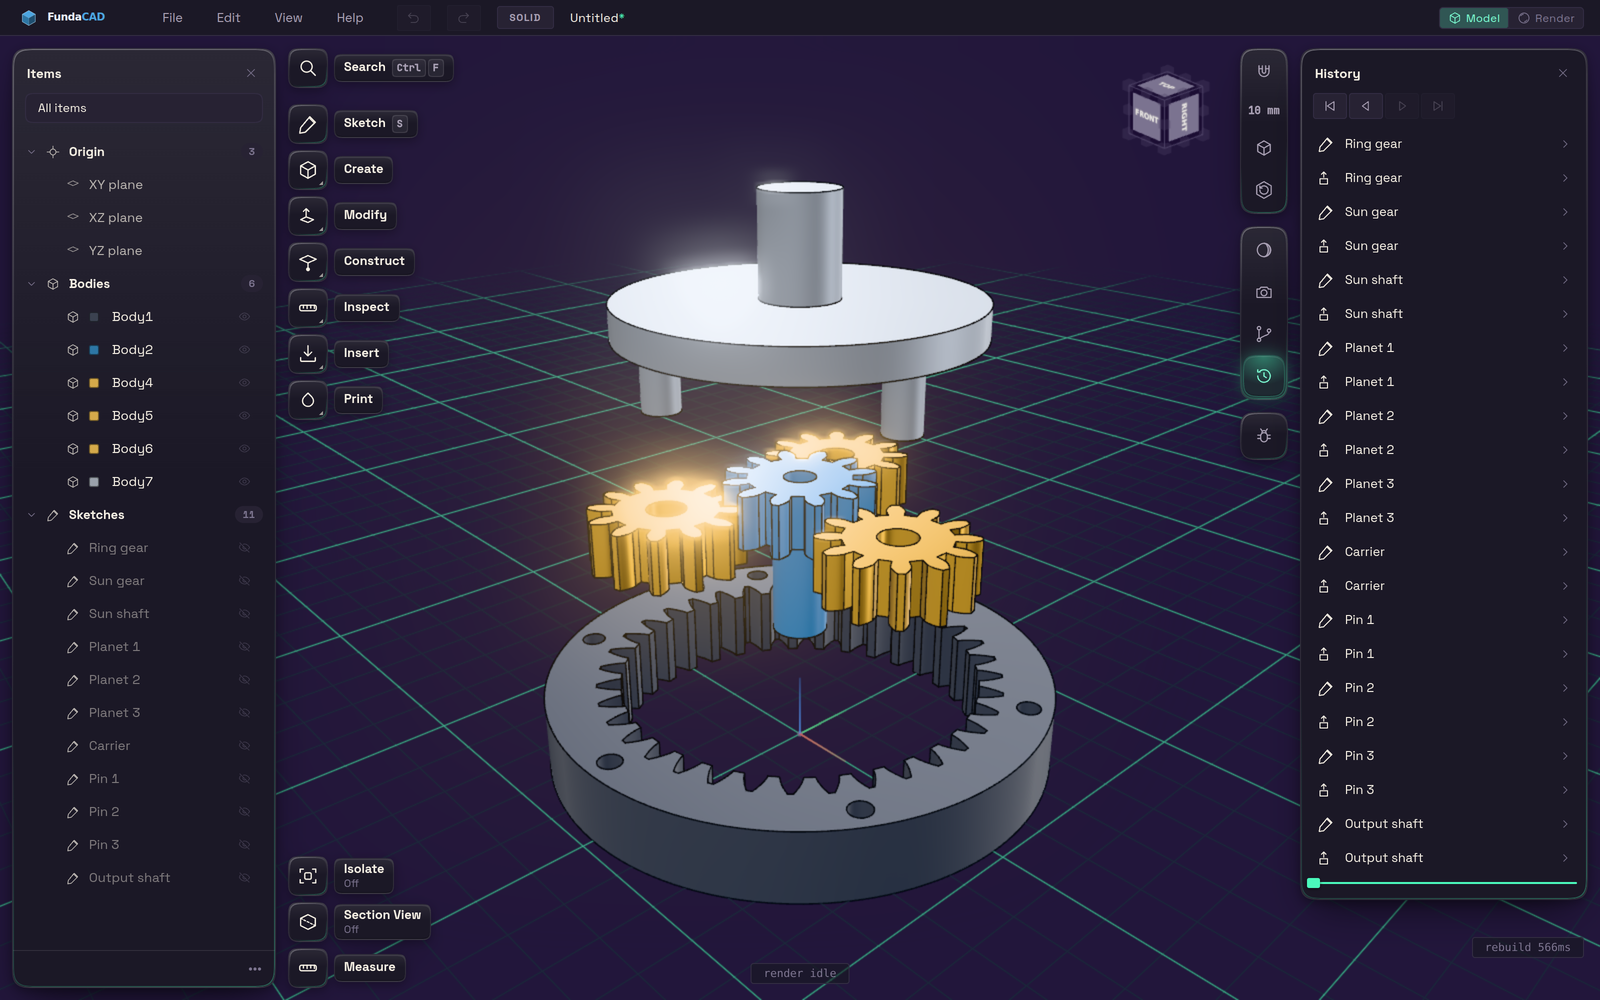
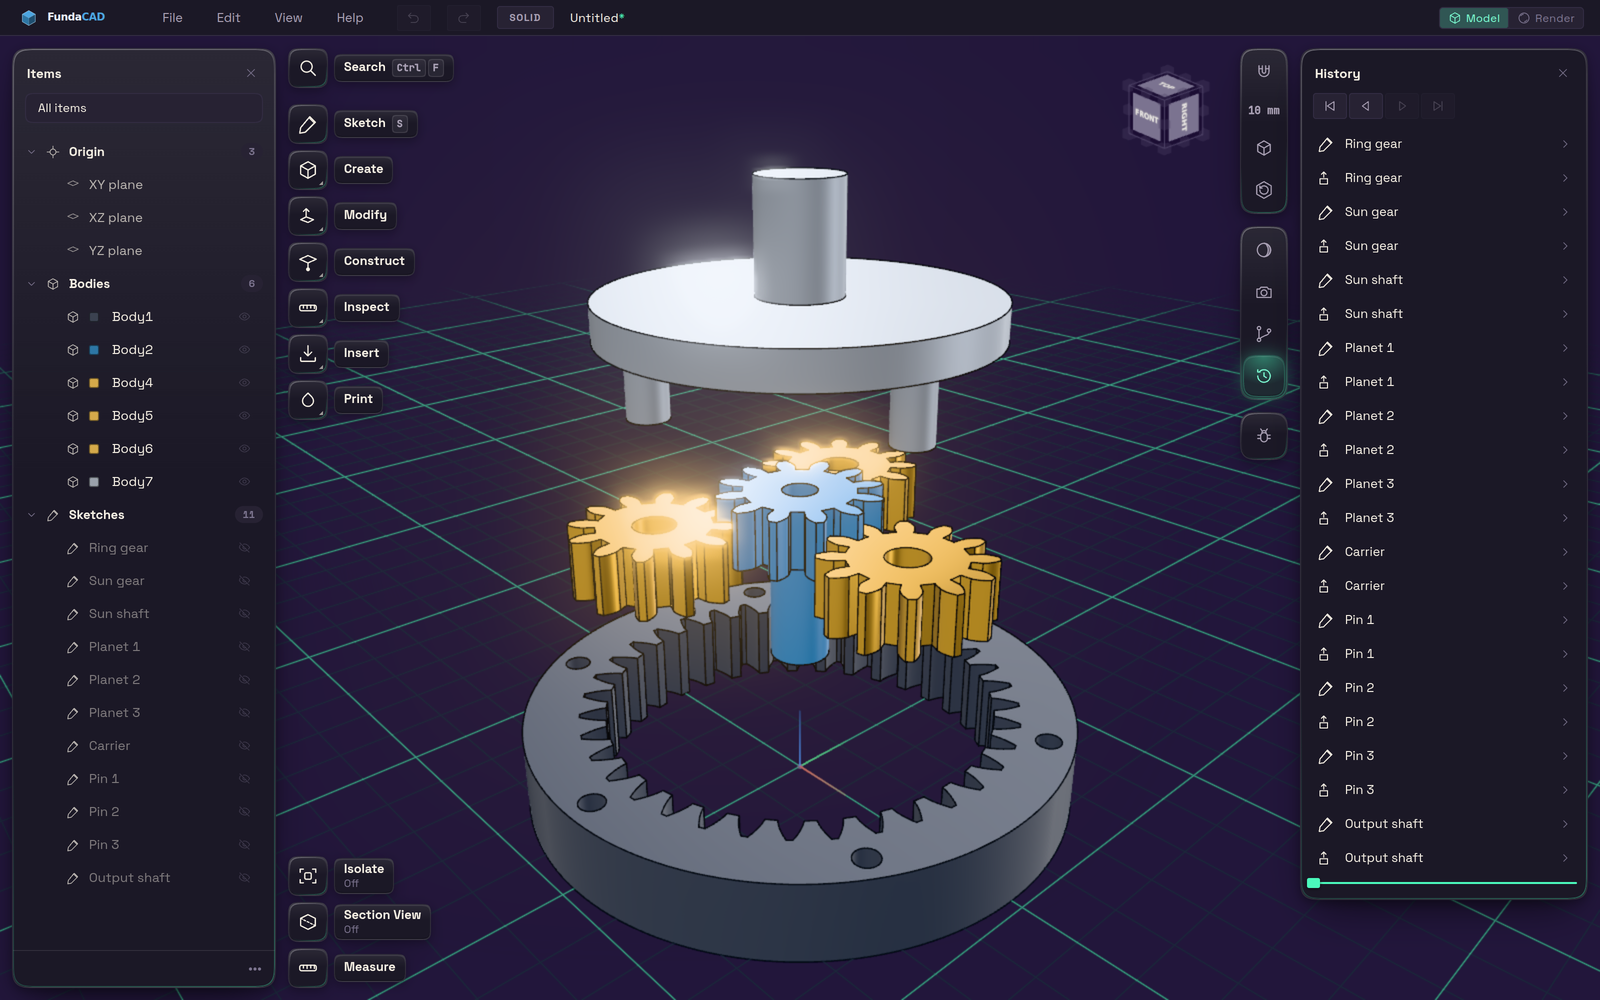
docs: lead the README with the gearbox in the full app window instead of the bare model

diff --git a/README.md b/README.md
@@ -40,11 +40,7 @@ the goal is it to make this a personalized version of a CAD with features I like
 
 
 <p align="center">
-  <img src="assets/readme/gearbox.png" width="1000" alt="An exploded planetary gearbox modelled in FundaCAD: a ring gear, a sun gear, three brass planets and a carrier">
-</p>
-
-<p align="center">
-  <img src="assets/readme/ui-overview.png" width="900" alt="FundaCAD main window with the gearbox, the item tree, the tool rail and the feature history">
+  <img src="assets/readme/ui-overview.png" width="1000" alt="FundaCAD main window with an exploded planetary gearbox, the item tree, the tool rail and the feature history">
 </p>
 
 <p align="center">
